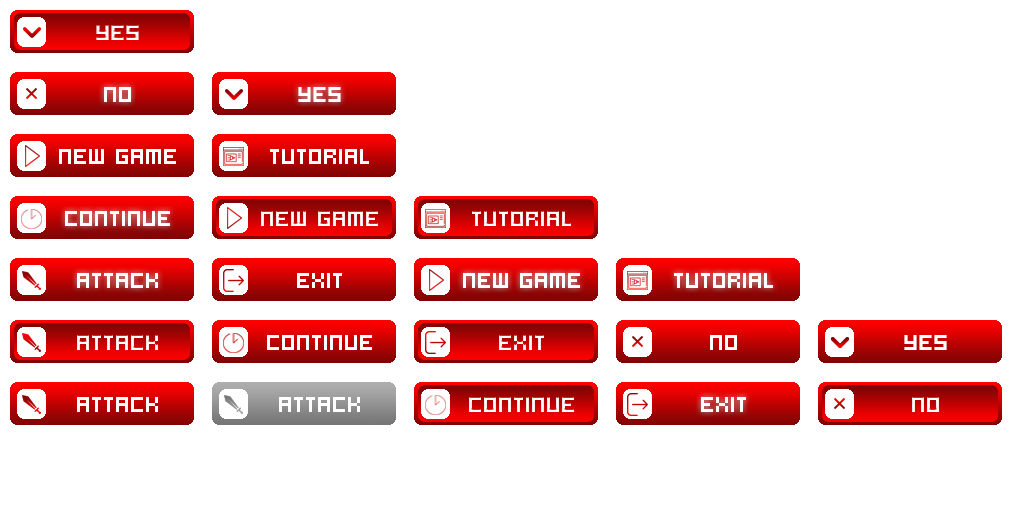
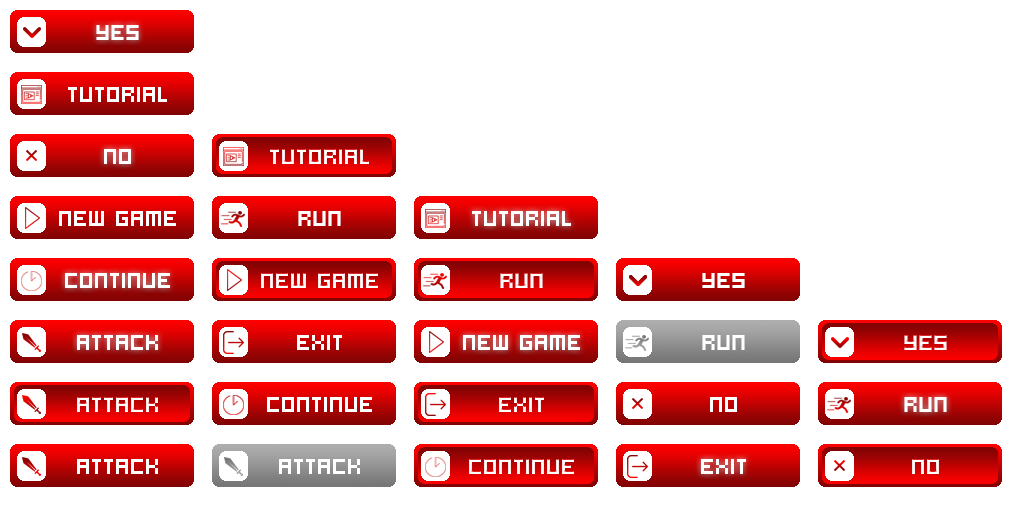
Add Continue in Menu, Add Run in BattleSystem and Update Everythings

diff --git a/src/com/alanwalker/state/BattleState.java b/src/com/alanwalker/state/BattleState.java
@@ -40,15 +40,13 @@ public class BattleState extends AbstractState {
 	private Stage stage;
 	private Label monsterHpLabel, playerHpLabel, playerTurnLabel;
 	private Label.LabelStyle monsterHPStyle, playerHPStyle, playerTurnStyle;
-	private TextButton attackButton;
 	private Texture dialogueBox, alanCharacter;
 	private boolean youTurn = true, monTurn;
-	private int flagTurnShowLabel;
 	private float delayTime = 0, delayTimeAttack = 0;
-
-	private Properties prop = new Properties();
-	private InputStream input = null;
-	private OutputStream output = null;
+	
+	// Button in State
+	private TextButton attackBtn;
+	private TextButton runBtn;
 
 	// Player Status
 	private int playerHp;
@@ -98,12 +96,19 @@ public class BattleState extends AbstractState {
 		skin.add("default", font);
 
 		// Create a button style
-		TextButton.TextButtonStyle attackButtonStyle = new TextButton.TextButtonStyle();
-		attackButtonStyle.up = skin.newDrawable("attack-active");
-		attackButtonStyle.over = skin.newDrawable("attack-over");
-		attackButtonStyle.down = skin.newDrawable("attack-clicked");
-		attackButtonStyle.disabled = skin.newDrawable("attack-disable");
-		attackButtonStyle.font = skin.getFont("default");
+		TextButton.TextButtonStyle attackBtnStyle = new TextButton.TextButtonStyle();
+		attackBtnStyle.up = skin.newDrawable("attack-active");
+		attackBtnStyle.over = skin.newDrawable("attack-over");
+		attackBtnStyle.down = skin.newDrawable("attack-clicked");
+		attackBtnStyle.disabled = skin.newDrawable("attack-disable");
+		attackBtnStyle.font = skin.getFont("default");
+		TextButton.TextButtonStyle runBtnStyle = new TextButton.TextButtonStyle();
+		runBtnStyle.up = skin.newDrawable("run-active");
+		runBtnStyle.over = skin.newDrawable("run-over");
+		runBtnStyle.down = skin.newDrawable("run-clicked");
+		runBtnStyle.disabled = skin.newDrawable("run-disable");
+		runBtnStyle.font = skin.getFont("default");
+		
 
 		// Create a label style
 		monsterHPStyle = new Label.LabelStyle();
@@ -116,9 +121,9 @@ public class BattleState extends AbstractState {
 		stage = new Stage();
 		Gdx.input.setInputProcessor(stage);// Make the stage consume events
 
-		attackButton = new TextButton("", attackButtonStyle); // Use the initialized skin
-		attackButton.setPosition(Gdx.graphics.getWidth() / 15, Gdx.graphics.getHeight() / 7);
-		attackButton.addListener(new ClickListener() {
+		attackBtn = new TextButton("", attackBtnStyle); // Use the initialized skin
+		attackBtn.setPosition(Gdx.graphics.getWidth() / 15, Gdx.graphics.getHeight() / 7);
+		attackBtn.addListener(new ClickListener() {
 			@Override
 			public void clicked(InputEvent event, float x, float y) {
 				delayTimeAttack = 0;
@@ -149,10 +154,33 @@ public class BattleState extends AbstractState {
 					}
 					if (loadPlayer.getProp().getProperty("mapName").equals("JungleState")) {
 						aw.setScreen(new JungleState(aw, positionPlayerX, positionPlayerY));
+					} else if (loadPlayer.getProp().getProperty("mapName").equals("JungleToCaveState")) {
+						aw.setScreen(new JungleToCaveState(aw, positionPlayerX, positionPlayerY));
+					} else if (loadPlayer.getProp().getProperty("mapName").equals("CaveState")) {
+						aw.setScreen(new CaveState(aw, positionPlayerX, positionPlayerY));
+					} else if (loadPlayer.getProp().getProperty("mapName").equals("BossMapState")) {
+						aw.setScreen(new BossMapState(aw, positionPlayerX, positionPlayerY));
 					}
 				}
 				youTurn = false;
 				monTurn = true;
+			}
+		});
+		
+		runBtn = new TextButton("", runBtnStyle); // Use the initialized skin
+		runBtn.setPosition(Gdx.graphics.getWidth() / 2 + 80, Gdx.graphics.getHeight() / 7);
+		runBtn.addListener(new ClickListener() {
+			@Override
+			public void clicked(InputEvent event, float x, float y) {
+				if (loadPlayer.getProp().getProperty("mapName").equals("JungleState")) {
+					aw.setScreen(new JungleState(aw, positionPlayerX, positionPlayerY));
+				} else if (loadPlayer.getProp().getProperty("mapName").equals("JungleToCaveState")) {
+					aw.setScreen(new JungleToCaveState(aw, positionPlayerX, positionPlayerY));
+				} else if (loadPlayer.getProp().getProperty("mapName").equals("CaveState")) {
+					aw.setScreen(new CaveState(aw, positionPlayerX, positionPlayerY));
+				} else if (loadPlayer.getProp().getProperty("mapName").equals("BossMapState")) {
+					aw.setScreen(new BossMapState(aw, positionPlayerX, positionPlayerY));
+				}
 			}
 		});
 
@@ -172,10 +200,14 @@ public class BattleState extends AbstractState {
 		playerTurnLabel.setColor(Color.WHITE);
 		playerTurnLabel.setFontScale(2f, 2f);
 		playerTurnLabel.setText("Your Turn !!");
-		attackButton.setTouchable(Touchable.disabled);
-		attackButton.setDisabled(true);
+		
+		attackBtn.setTouchable(Touchable.disabled);
+		attackBtn.setDisabled(true);
+		runBtn.setTouchable(Touchable.disabled);
+		runBtn.setDisabled(true);
 
-		stage.addActor(attackButton);
+		stage.addActor(attackBtn);
+		stage.addActor(runBtn);
 		stage.addActor(monsterHpLabel);
 		stage.addActor(playerHpLabel);
 		stage.addActor(playerTurnLabel);
@@ -223,8 +255,12 @@ public class BattleState extends AbstractState {
 
 		if (delayTime > 3) {
 			playerTurnLabel.setText("");
-			attackButton.setTouchable(Touchable.enabled);
-			attackButton.setDisabled(false);
+			
+			attackBtn.setTouchable(Touchable.enabled);
+			attackBtn.setDisabled(false);
+			runBtn.setTouchable(Touchable.enabled);
+			runBtn.setDisabled(false);
+			
 			delayTime = 0;
 		} else {
 			delayTime += delta;
@@ -232,8 +268,8 @@ public class BattleState extends AbstractState {
 
 		// Check Player Turn
 		if (youTurn == false) {
-			attackButton.setTouchable(Touchable.disabled);
-			attackButton.setDisabled(true);
+			attackBtn.setTouchable(Touchable.disabled);
+			attackBtn.setDisabled(true);
 		}
 
 		// Update All Text on Screen
@@ -247,7 +283,7 @@ public class BattleState extends AbstractState {
 			if (delayTimeAttack > 3) {
 				delayTime = 0;
 				if (monsterAttack == 0) {
-					attackButton.setTouchable(Touchable.enabled);
+					attackBtn.setTouchable(Touchable.enabled);
 					youTurn = true;
 					monTurn = false;
 					playerTurnLabel.setText("Miss !!");
@@ -266,7 +302,7 @@ public class BattleState extends AbstractState {
 					} catch (IOException e) {
 						e.printStackTrace();
 					}
-					attackButton.setTouchable(Touchable.enabled);
+					attackBtn.setTouchable(Touchable.enabled);
 					youTurn = true;
 					monTurn = false;
 					playerTurnLabel.setText("Your Turn !!");

diff --git a/src/com/alanwalker/state/MenuState.java b/src/com/alanwalker/state/MenuState.java
@@ -1,5 +1,8 @@
 package com.alanwalker.state;
 
+import java.io.FileInputStream;
+import java.io.FileNotFoundException;
+
 import com.alanwalker.main.AlanWalker;
 import com.alanwalker.main.Settings;
 import com.alanwalker.util.LoadSave;
@@ -22,12 +25,22 @@ public class MenuState extends AbstractState{
 	private Texture bg;
 	private Skin skin;
 	private Stage stage;
-	private LoadSave load;
+	private float positionPlayerX, positionPlayerY;
+	private LoadSave loadPlayer;
+	
+	// Button
+	private TextButton continueButton;
+	private TextButton newGameButton;
 	
 	public MenuState(AlanWalker aw) {
 		super(aw);
 
 		sb = new SpriteBatch();
+		
+		// New Game or Load File Save
+		loadPlayer = new LoadSave();
+		positionPlayerX = Float.valueOf(loadPlayer.getStartX());
+		positionPlayerY = Float.valueOf(loadPlayer.getStartY());
 		
 		// Load Button TextureAtlas
 		TextureAtlas startButtonAtlas = new TextureAtlas(Gdx.files.internal("resource/ui/button/button.atlas"));
@@ -43,7 +56,7 @@ public class MenuState extends AbstractState{
 		TextButton.TextButtonStyle newGameButtonStyle = new TextButton.TextButtonStyle();
 		TextButton.TextButtonStyle tutorialButtonStyle = new TextButton.TextButtonStyle();
 		TextButton.TextButtonStyle exitButtonStyle = new TextButton.TextButtonStyle();
-//		TextButton.TextButtonStyle continueButtonStyle = new TextButton.TextButtonStyle();
+		TextButton.TextButtonStyle continueButtonStyle = new TextButton.TextButtonStyle();
 		newGameButtonStyle.up = skin.newDrawable("new-game-active");
 		newGameButtonStyle.over = skin.newDrawable("new-game-over");
 		newGameButtonStyle.down = skin.newDrawable("new-game-clicked");
@@ -56,20 +69,41 @@ public class MenuState extends AbstractState{
 		exitButtonStyle.over = skin.newDrawable("exit-over");
 		exitButtonStyle.down = skin.newDrawable("exit-clicked");
 		exitButtonStyle.font = skin.getFont("default");
+		continueButtonStyle.up = skin.newDrawable("continue-active");
+		continueButtonStyle.over = skin.newDrawable("continue-over");
+		continueButtonStyle.down = skin.newDrawable("continue-clicked");
+		continueButtonStyle.font = skin.getFont("default");
 		
 		bg = new Texture(Gdx.files.internal("resource/backgrounds/menubg-2.gif"));
 
 		stage = new Stage();
         Gdx.input.setInputProcessor(stage);// Make the stage consume events
 
-        TextButton newGameButton = new TextButton("", newGameButtonStyle); // Use the initialized skin
+        newGameButton = new TextButton("", newGameButtonStyle); // Use the initialized skin
         newGameButton.setPosition(Gdx.graphics.getWidth()/2 - Gdx.graphics.getWidth()/6 , Gdx.graphics.getHeight()/2);
         newGameButton.addListener(new ClickListener() {
 			@Override
 			public void clicked(InputEvent event, float x, float y) {
-//				screen = new StoryState(aw);
-				screen = new CaveState(aw, 8, 10);
+				screen = new StoryState(aw);
+//				screen = new CaveState(aw, 8, 10);
 				aw.setScreen(screen);
+			}
+		});
+        
+        continueButton = new TextButton("", continueButtonStyle); // Use the initialized skin
+        continueButton.setPosition(Gdx.graphics.getWidth()/2 - Gdx.graphics.getWidth()/6 , Gdx.graphics.getHeight()/2);
+        continueButton.addListener(new ClickListener() {
+			@Override
+			public void clicked(InputEvent event, float x, float y) {
+				if (loadPlayer.getProp().getProperty("mapName").equals("JungleState")) {
+					aw.setScreen(new JungleState(aw, positionPlayerX, positionPlayerY));
+				} else if (loadPlayer.getProp().getProperty("mapName").equals("JungleToCaveState")) {
+					aw.setScreen(new JungleToCaveState(aw, positionPlayerX, positionPlayerY));
+				} else if (loadPlayer.getProp().getProperty("mapName").equals("CaveState")) {
+					aw.setScreen(new CaveState(aw, positionPlayerX, positionPlayerY));
+				} else if (loadPlayer.getProp().getProperty("mapName").equals("BossMapState")) {
+					aw.setScreen(new BossMapState(aw, positionPlayerX, positionPlayerY));
+				}
 			}
 		});
         
@@ -88,6 +122,7 @@ public class MenuState extends AbstractState{
 		
 		// Add Button in Stage
         stage.addActor(newGameButton);
+        stage.addActor(continueButton);
         stage.addActor(tutorialButton);
         stage.addActor(exitButton);
 	}
@@ -111,6 +146,18 @@ public class MenuState extends AbstractState{
 	public void render(float delta) {
         Gdx.gl.glClearColor(0, 0, 0, 0);
         Gdx.gl.glClear(GL20.GL_COLOR_BUFFER_BIT);
+        
+        try {
+			if(new FileInputStream("saves/save.properties") != null) {
+				newGameButton.setVisible(false);
+				continueButton.setVisible(true);
+			} else {
+				newGameButton.setVisible(true);
+				continueButton.setVisible(false);
+			}
+		} catch (FileNotFoundException e) {
+			e.printStackTrace();
+		}
 
         sb.begin();
         sb.draw(bg, 0, 0, Settings.V_WIDTH, Settings.V_HEIGHT);
@@ -133,8 +180,7 @@ public class MenuState extends AbstractState{
 
 	@Override
 	public void show() {
-		// New Game or Load File Save
-		load = new LoadSave();
+		
 	}
 
 }

diff --git a/src/com/alanwalker/state/BossMapState.java b/src/com/alanwalker/state/BossMapState.java
@@ -48,8 +48,7 @@ public class BossMapState extends AbstractState{
 	private double positionMonster2Y;
 	
 	// Move Map
-	private Rectangle toBossMap;
-	private Rectangle toJungleToCave;
+	private Rectangle toCave;
 
 	// Status Player
 	private String level;
@@ -192,10 +191,7 @@ public class BossMapState extends AbstractState{
 		}
 		
 		npcQuest = new Rectangle(7.5f, 8, 1, 1);
-		toBossMap = new Rectangle(7.5f, 14.5f, 1, 0.5f);
-		toJungleToCave = new Rectangle(0.5f, 13.5f, 0.5f, 0.5f);
-		monsterSpawn1 = new Rectangle(8, 9.5f, 8, 4);
-		monsterSpawn2 = new Rectangle(8, 6.5f, 8, 2);
+		toCave = new Rectangle(4, 0, 1.5f, 1);
 
 		actor = new Rectangle(player.getX(), player.getY(), 1, 1);
 		playerControll.update(delta);
@@ -215,36 +211,25 @@ public class BossMapState extends AbstractState{
 
 		camera.update();
 		
-		// Press "C" to talk NPC in nearby
+		// Press "Space" to talk NPC in nearby
 		if (actor.overlaps(npcQuest)) {
-			if (Gdx.input.isKeyPressed(Input.Keys.C)) {
+			if (Gdx.input.isKeyPressed(Input.Keys.SPACE)) {
 				screen = new QuestTalk2State(aw, player.getX(), player.getY());
 				aw.setScreen(screen);
 			}
 		}
 		
 		// Move Map
-		if (actor.overlaps(toBossMap)) { // -- to Boss Map -- //
+		if (actor.overlaps(toCave)) { // -- to Cave Map -- //
 			try {
-				loadPlayer.getProp().setProperty("mapName", "BossMapState");
+				loadPlayer.getProp().setProperty("mapName", "CaveState");
 				loadPlayer.getProp().store(new FileOutputStream("saves/save.properties"), null);
 			} catch (FileNotFoundException e) {
 				e.printStackTrace();
 			} catch (IOException e) {
 				e.printStackTrace();
 			}
-			screen = new BossMapState(aw, 0.5f, 9);
-			aw.setScreen(screen);
-		} else if (actor.overlaps(toJungleToCave)) { // -- to Jungle To Cave Map -- //
-			try {
-				loadPlayer.getProp().setProperty("mapName", "JungleToCaveState");
-				loadPlayer.getProp().store(new FileOutputStream("saves/save.properties"), null);
-			} catch (FileNotFoundException e) {
-				e.printStackTrace();
-			} catch (IOException e) {
-				e.printStackTrace();
-			}
-			screen = new JungleToCaveState(aw, 1, 9);
+			screen = new CaveState(aw, 8, 13);
 			aw.setScreen(screen);
 		}
 		

diff --git a/src/com/alanwalker/state/JungleState.java b/src/com/alanwalker/state/JungleState.java
@@ -42,8 +42,12 @@ public class JungleState extends AbstractState {
 	private Texture alanHud;
 
 	private Rectangle monsterSpawn, actor, npcQuest;
-	private double positionMonsterX;
-	private double positionMonsterY;
+	
+	// Random Position Monster Spawn
+	private double positionMonster1X;
+	private double positionMonster1Y;
+	private double positionMonster2X;
+	private double positionMonster2Y;
 	
 	// Move Map
 	private Rectangle toVillage;
@@ -122,8 +126,10 @@ public class JungleState extends AbstractState {
 		stage.addActor(countQuestLabel);
 
 		// Respawn Monster in Map
-		positionMonsterX = Math.random() * 6 + 1;
-		positionMonsterY = Math.random() * 3 + 2;
+		positionMonster1X = Math.random() * 6 + 1;
+		positionMonster1Y = Math.random() * 3 + 2;
+		positionMonster2X = Math.random() * 6 + 1;
+		positionMonster2Y = Math.random() * 3 + 2;
 		
 		// Load Alan Hud
 		alanHud = new Texture(Gdx.files.internal("resource/hud/alan-hud.png"));
@@ -250,10 +256,15 @@ public class JungleState extends AbstractState {
 		}
 
 		// Detection Monster in map
-		if (actor.overlaps(monsterSpawn)) {
-			if((int) positionMonsterX == player.getX() && (int) positionMonsterY == player.getY()) {
-				screen = new BattleState(aw, "JungleState", player.getX(), player.getY());
-				aw.setScreen(screen);
+		if (loadPlayer.getProp().getProperty("Quest1CountMonster") != null) {
+			if (actor.overlaps(monsterSpawn)) {
+				if ((int) positionMonster1X == player.getX() && (int) positionMonster1Y == player.getY()) {
+					screen = new BattleState(aw, "JungleState", player.getX(), player.getY());
+					aw.setScreen(screen);
+				} else if ((int) positionMonster2X == player.getX() && (int) positionMonster2Y == player.getY()) {
+					screen = new BattleState(aw, "JungleState", player.getX(), player.getY());
+					aw.setScreen(screen);
+				}
 			}
 		}
 		
